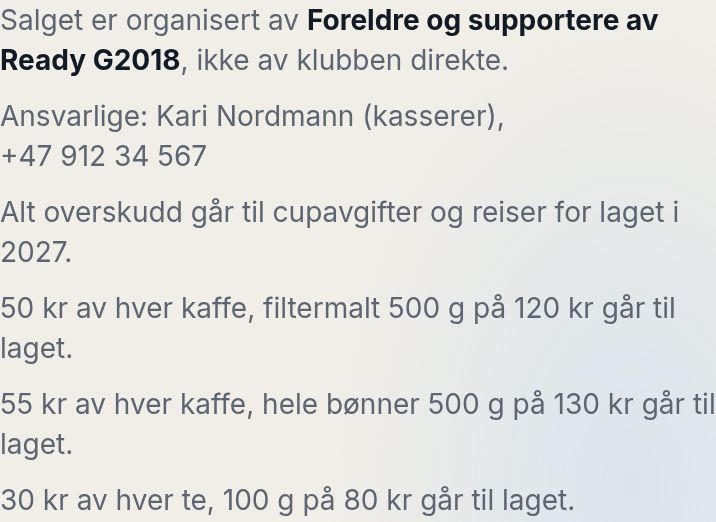
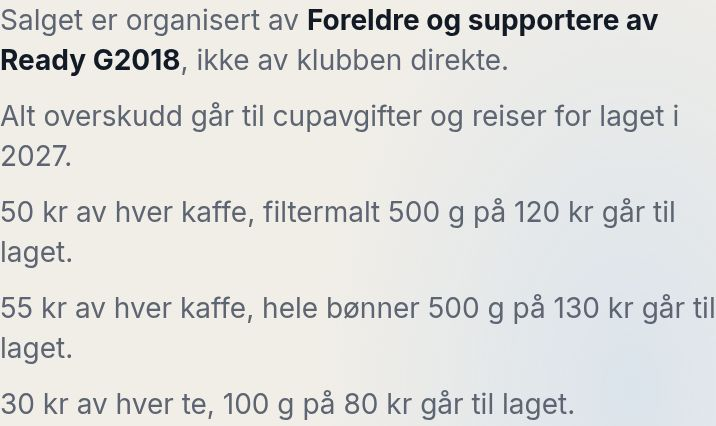
Friends no longer see admins (only parents do); friend emails reply to the parent; status on its own line; 'betaling ikke registrert ennå'

Changed region(s): [[0.0, 0.0, 0.9525, 0.5493], [0.0, 0.5493, 1.0, 0.885], [0.0, 0.9155, 0.7989, 1.0]]

diff --git a/supabase/functions/_shared/email.ts b/supabase/functions/_shared/email.ts
@@ -1,5 +1,6 @@
 // Email texts (Norwegian). Every email names the organizer and the purpose,
-// and replies go to the campaign's contact admin.
+// Replies from parents go to the campaign's contact admin; replies from friends go to the parent
+// they ordered through (friends don't see the admins, owner's choice 7 Nov 2026).
 import type { SupabaseClient } from 'npm:@supabase/supabase-js@2'
 
 const APP_URL = Deno.env.get('APP_URL') ?? 'https://dugnad.substitutor.no'
@@ -30,7 +31,7 @@ const phone = (p: string) => {
 const esc = (s: string) =>
   String(s ?? '').replace(/[&<>"']/g, (c) => ({ '&': '&amp;', '<': '&lt;', '>': '&gt;', '"': '&quot;', "'": '&#39;' })[c]!)
 
-function layout(campaign: { organizer_label: string; purpose_text: string; name: string }, contactName: string, body: string) {
+function layout(campaign: { organizer_label: string; purpose_text: string; name: string }, contactLine: string, body: string) {
   return `<!doctype html><html lang="nb"><body style="margin:0;background:#f1eee8;font-family:system-ui,-apple-system,Segoe UI,Roboto,sans-serif;color:#121a26">
 <div style="max-width:560px;margin:0 auto;padding:24px 16px">
 <p style="margin:0 0 12px"><img src="${APP_URL}/email-logo.png" width="180" height="48" alt="ProDugnad" style="display:block;border:0"></p>
@@ -39,7 +40,7 @@ function layout(campaign: { organizer_label: string; purpose_text: string; name:
 <p style="font-size:13px;color:#57534e;line-height:1.5;margin-top:16px">
 ${esc(campaign.name)} er organisert av ${esc(campaign.organizer_label)}, ikke av klubben direkte.
 ${campaign.purpose_text ? `<br>${esc(campaign.purpose_text)}` : ''}
-${contactName ? `<br>Kontakt: ${esc(contactName)} (svar på denne e-posten).` : ''}</p>
+${contactLine ? `<br>${contactLine}` : ''}</p>
 </div></body></html>`
 }
 
@@ -71,8 +72,10 @@ export async function renderEmail(db: SupabaseClient, row: OutboxRow): Promise<R
     fromName: `${campaign.organizer_label.replace(/[<>"]/g, '')} via ProDugnad`,
     replyTo: contact?.email || null,
   }
+  // Emails to parents: replies to the contact admin
   const wrap = (subject: string, body: string): Rendered => {
-    const html = layout(campaign, contact?.name ?? '', body)
+    const line = contact?.name ? `Kontakt: ${esc(contact.name)} (svar på denne e-posten).` : ''
+    const html = layout(campaign, line, body)
     return { ...base, subject, html, text: htmlToText(html) }
   }
 
@@ -83,6 +86,13 @@ export async function renderEmail(db: SupabaseClient, row: OutboxRow): Promise<R
     .single()
   if (!cp) return null
   const parentName: string = cp.profiles?.name ?? ''
+  // Emails to friends: replies go to the parent they ordered through, not to the admins
+  const wrapFriend = (subject: string, body: string): Rendered => {
+    const first = parentName.split(' ')[0]
+    const line = first ? `Spørsmål? Svar på denne e-posten, så kommer den til ${esc(first)}.` : ''
+    const html = layout(campaign, line, body)
+    return { ...base, replyTo: cp.profiles?.email || null, subject, html, text: htmlToText(html) }
+  }
 
   if (row.kind === 'friend_order' || row.kind === 'friend_paid') {
     const { data: order } = await db
@@ -97,7 +107,7 @@ export async function renderEmail(db: SupabaseClient, row: OutboxRow): Promise<R
       .join('')
     const statusUrl = `${APP_URL}/status/${order.status_token}`
     if (row.kind === 'friend_order') {
-      return wrap(
+      return wrapFriend(
         `Bestilling ${order.code}: Vipps ${kr(amount)} til ${parentName}`,
         `<h1 style="font-size:20px;margin:0 0 12px">Takk for bestillingen, ${esc(order.buyer_first_name)}!</h1>
 <table style="width:100%;font-size:15px;border-collapse:collapse">${lines}
@@ -107,7 +117,7 @@ ${button(statusUrl, 'Se status på bestillingen')}
 <p>${esc(parentName)} leverer varene når de kommer.</p>`,
       )
     }
-    return wrap(
+    return wrapFriend(
       `Takk! Betalingen for ${order.code} er registrert`,
       `<h1 style="font-size:20px;margin:0 0 12px">Takk, ${esc(order.buyer_first_name)}!</h1>
 <p>${esc(parentName)} har registrert at du har betalt ${kr(amount)} for bestilling ${esc(order.code)}.</p>

diff --git a/src/pages/admin/PeoplePage.tsx b/src/pages/admin/PeoplePage.tsx
@@ -58,7 +58,7 @@ export default function PeoplePage() {
             }}
           >
             <h2 className="text-lg font-bold">Din profil</h2>
-            <p className="text-sm text-muted">Navnet og rollen din vises offentlig på alle sider i dugnaden.</p>
+            <p className="text-sm text-muted">Navnet og rollen din vises for foreldrene i dugnaden, ikke for kundene.</p>
             <Field label="Navn">
               <Input value={name} onChange={(e) => { setName(e.target.value); setSaved(false) }} />
             </Field>
@@ -70,7 +70,7 @@ export default function PeoplePage() {
             </Field>
             <label className="flex items-center gap-2">
               <input type="checkbox" className="h-5 w-5" checked={showPhone} onChange={(e) => { setShowPhone(e.target.checked); setSaved(false) }} />
-              Vis telefonnummeret mitt offentlig
+              Vis telefonnummeret mitt for foreldrene
             </label>
             <Button type="submit">{saved ? 'Lagret ✓' : 'Lagre'}</Button>
           </form>

diff --git a/src/pages/parent/ParentPage.tsx b/src/pages/parent/ParentPage.tsx
@@ -13,6 +13,7 @@ import { supabase } from '../../lib/supabase'
 import { baseVars, fill, parentLink } from '../../lib/templates'
 import { ORDER_TYPE_LABEL, orderAmount, orderUnits, type Order } from '../../lib/types'
 import { QrCode } from '../../components/QrCode'
+import { Transparency } from '../../components/Transparency'
 
 type Filter = 'alle' | 'ubetalt' | 'ikke-levert'
 
@@ -199,6 +200,11 @@ export default function ParentPage() {
           Kunder ser navnet ditt og nummeret {phone(cp.profiles.phone)} når de bestiller. Betalingskoden din til admin er{' '}
           {cp.payment_code}.
         </p>
+        {page && (
+          <Card>
+            <Transparency campaign={page.campaign} products={page.products} />
+          </Card>
+        )}
         <Button variant="ghost" onClick={() => void signOut()}>
           Logg ut
         </Button>

diff --git a/src/pages/OrderStatusPage.tsx b/src/pages/OrderStatusPage.tsx
@@ -45,9 +45,8 @@ export default function OrderStatusPage() {
           <Logo size={28} />
           <p className="text-sm font-semibold text-brand">{campaign.organizer_label}</p>
         </div>
-        <h1 className="font-display text-[32px] leading-[1.05] tracking-wide uppercase">
-          Bestilling {order.code}: {STATUS_LABEL[order.status]}
-        </h1>
+        <h1 className="font-display text-[32px] leading-[1.05] tracking-wide uppercase">Bestilling {order.code}</h1>
+        <p className="text-lg font-semibold text-brand">Status: {STATUS_LABEL[order.status]}</p>
         <p className="text-ink">
           {order.buyer_first_name}, bestilt {longDate(order.created_at)} via {parent.name}
           {parent.child_first_name && `, forelder til ${parent.child_first_name}`}.

diff --git a/src/lib/types.ts b/src/lib/types.ts
@@ -194,7 +194,7 @@ export const ORDER_TYPE_LABEL: Record<OrderType, string> = {
 }
 
 export const STATUS_LABEL: Record<FriendStatus, string> = {
-  registrert: 'ikke betalt',
+  registrert: 'betaling ikke registrert ennå',
   betalt: 'betalt',
   'på vei': 'på vei',
   levert: 'levert',

diff --git a/docs/tekster.md b/docs/tekster.md
@@ -27,7 +27,7 @@ Every text in the app, the emails and the link previews, as of 7 November 2026, 
 | A16 | Ordering closed (deadline) | Fristen for å bestille har gått ut. |
 | A17 | Ordering closed (locked) | Bestillingen er stengt fordi varene er bestilt fra leverandøren. |
 | A18 | Ordering closed (finished) | Dugnaden er avsluttet. |
-| A19 | Earlier order on this phone | Din bestilling **K7**: ikke betalt / betalt / på vei / levert · Se → |
+| A19 | Earlier order on this phone | Din bestilling **K7**: betaling ikke registrert ennå / betalt / på vei / levert · Se → |
 | A20 | Wrong link | Fant ikke denne lenken. Sjekk at du har hele lenken. |
 
 ## B. After ordering
@@ -54,7 +54,7 @@ Every text in the app, the emails and the link previews, as of 7 November 2026, 
 
 | # | Where | Text |
 |---|---|---|
-| C1 | Title | Bestilling K7: ikke betalt / betalt / på vei / levert / avbestilt |
+| C1 | Title + status line | Bestilling K7 · Status: betaling ikke registrert ennå / betalt / på vei / levert / avbestilt |
 | C2 | Under the title | Kari, bestilt 7. november 2026 via Ola Hansen, forelder til Emma. |
 | C3 | Progress steps | Registrert · Betalt · På vei · Levert |
 | C4 | List | 2 × *Kaffe, filtermalt 500 g* · Totalt |
@@ -71,7 +71,7 @@ Every text in the app, the emails and the link previews, as of 7 November 2026, 
 | # | Where | Text |
 |---|---|---|
 | D1 | Organizer | Salget er organisert av **Foreldre og supportere av Ready G2018**, ikke av klubben direkte. |
-| D2 | Admins | Ansvarlige: Kari Nordmann (kasserer), +47 912 34 567, Martin P. (koordinator) |
+| D2 | Admins (parent page only, not shown to friends) | Ansvarlige: Kari Nordmann (kasserer), +47 912 34 567, Martin P. (koordinator) |
 | D3 | Purpose | *Alt overskudd går til …* |
 | D4 | Per product | 50 kr av hver kaffe, filtermalt 500 g på 120 kr går til laget. |
 | D5 | When finished | *The closing message, see I13* |
@@ -183,9 +183,9 @@ Every text in the app, the emails and the link previews, as of 7 November 2026, 
 | H4 | Campaign card | *Kaffesalg* · Frist 14. november 2026 / Ingen frist · Åpen / Låst / Avsluttet |
 | H5 | Empty | Ingen dugnader ennå. |
 | H6 | Innstillinger, box title | Din profil |
-| H7 | Text | Navnet og rollen din vises offentlig på alle sider i dugnaden. |
+| H7 | Text | Navnet og rollen din vises for foreldrene i dugnaden, ikke for kundene. |
 | H8 | Fields | Navn · Rolle (For eksempel kasserer eller koordinator) · Telefon |
-| H9 | Tick box | Vis telefonnummeret mitt offentlig |
+| H9 | Tick box | Vis telefonnummeret mitt for foreldrene |
 | H10 | Box title | Administratorer |
 | H11 | Admin row | *Kari Nordmann* · kasserer · telefon skjult · *e-post* · Fjern |
 | H12 | Field + hint | Legg til admin (e-post) · Personen må ha logget inn én gang først, på /logg-inn |
@@ -252,7 +252,7 @@ Every text in the app, the emails and the link previews, as of 7 November 2026, 
 | K4 | Parent payment registered | **Betaling registrert: 1 440 kr av 1 440 kr** · Takk, Ola! · Vi har registrert betalingen din for *Kaffesalg*. Du har nå betalt **1 440 kr** av **1 440 kr**. · Det gjenstår … / Du har betalt … for mye. Vi tar kontakt. / Alt er betalt. Tusen takk! · Se dine bestillinger |
 | K5 | Goods sent | **Varene til *Kaffesalg* er på vei til deg** · Varene er på vei, Ola! · Varene for bestillingene dine er sendt til deg. Bruk pakkelisten for å fordele dem, og kryss av «levert» etter hvert. · Åpne pakkelisten · Til bestillingene dine |
 | K6 | Daily digest (20:00) | **3 nye bestillinger i dag (720 kr)** / **1 ny bestilling i dag (240 kr)** · Nye bestillinger i dag, Ola · I dag · Totalt bestilt via deg: … · Ikke betalt ennå: 480 kr fra Kari, Per. / Alle kunder har betalt. · Åpne bestillingene · Du får denne e-posten bare på dager med nye bestillinger via lenken din. |
-| K7 | Footer of K2–K6 | *Kaffesalg* er organisert av *Foreldre og supportere av Ready G2018*, ikke av klubben direkte. / *Alt overskudd går til …* / Kontakt: *Kari Nordmann* (svar på denne e-posten). |
+| K7 | Footer of K2–K6 | *Kaffesalg* er organisert av *Foreldre og supportere av Ready G2018*, ikke av klubben direkte. / *Alt overskudd går til …* / To parents: Kontakt: *Kari Nordmann* (svar på denne e-posten). To friends: Spørsmål? Svar på denne e-posten, så kommer den til Ola. |
 | K8 | Sender name | *Foreldre og supportere av Ready G2018* via ProDugnad |
 
 ## L. Link previews (Messenger, WhatsApp, SMS)

diff --git a/CLAUDE.md b/CLAUDE.md
@@ -5,7 +5,7 @@ Read `docs/brief.md` (the spec) and `docs/plan.md` (approved plan, decisions log
 ## Rules
 - UI text in Norwegian bokmål; code, comments, commit messages in English.
 - Formats: amounts `1 440 kr` via `kr()` in `src/lib/format.ts`; dates `20. november 2026` via `longDate()`.
-- Every public page and email shows the organizer label ("…supportere av Ready G2018", never the club as organizer), the admins (phone only if `show_phone_public`), the parent, and the purpose.
+- Every public page and email shows the organizer label ("…supportere av Ready G2018", never the club as organizer), the parent, and the purpose. Admins' names and phones (phone only if `show_phone_public`) and the progress bar are only for parents and admins, not friends (owner, 7 Nov 2026).
 - Short labels, hints and button side-texts end without a full stop.
 - Look: borrowed from Substitutor but kept light (owner, 7 Nov 2026): warm off-white page with a still colour glow, navy `brand` from ready.no (#002e5f, owner 7 Nov 2026: to tell it apart from Substitutor), PRO in the name is faded navy (`text-brand/40`, owner's choice), gold glow, white cards with a thin edge (no blur), `Logo`/`Brand`/`Title` in `components/ui.tsx` (Barlow Condensed uppercase titles, Inter text, fonts in `public/fonts`). Colours are Tailwind tokens in `src/index.css` (`brand`, `brand-bright`, `gold`, `cream`, `line`, `ink`, `muted`); logo = shopping bag with heart (`public/logo.svg`).
 - No real personal data or Vipps screenshots in the repo. Dummy data only (`scripts/seed.mjs`).

diff --git a/docs/plan.md b/docs/plan.md
@@ -14,6 +14,7 @@ The spec is [brief.md](brief.md). This file records the approved plan and every 
 | Parent sign-up | Through `/bli-med/<join_code>`, a link admins share. Anyone with the link can sign up |
 | Admins | Global (`profiles.is_admin`), one team per install. First admin set by SQL; others added from the admin page after they have logged in once |
 | Admin public info | Name, role title and phone (only if opted in) stored on `profiles`, shown on all campaigns |
+| Admins on public pages | Friends don't see admin names or phone numbers; parents see them at the bottom of their page. Friend emails reply to the parent, parent emails to the contact admin (owner, 7 Nov) |
 | Progress bar | Counts all orders, including `own` and `extra` |
 | Login link | No visible "Logg inn" on the friend page |
 | Progress bar | Money to the team (profit), not sales. Only parents and admins see it; friends get no amount at all (owner, 7 Nov; deviates from the brief's transparency list) |
